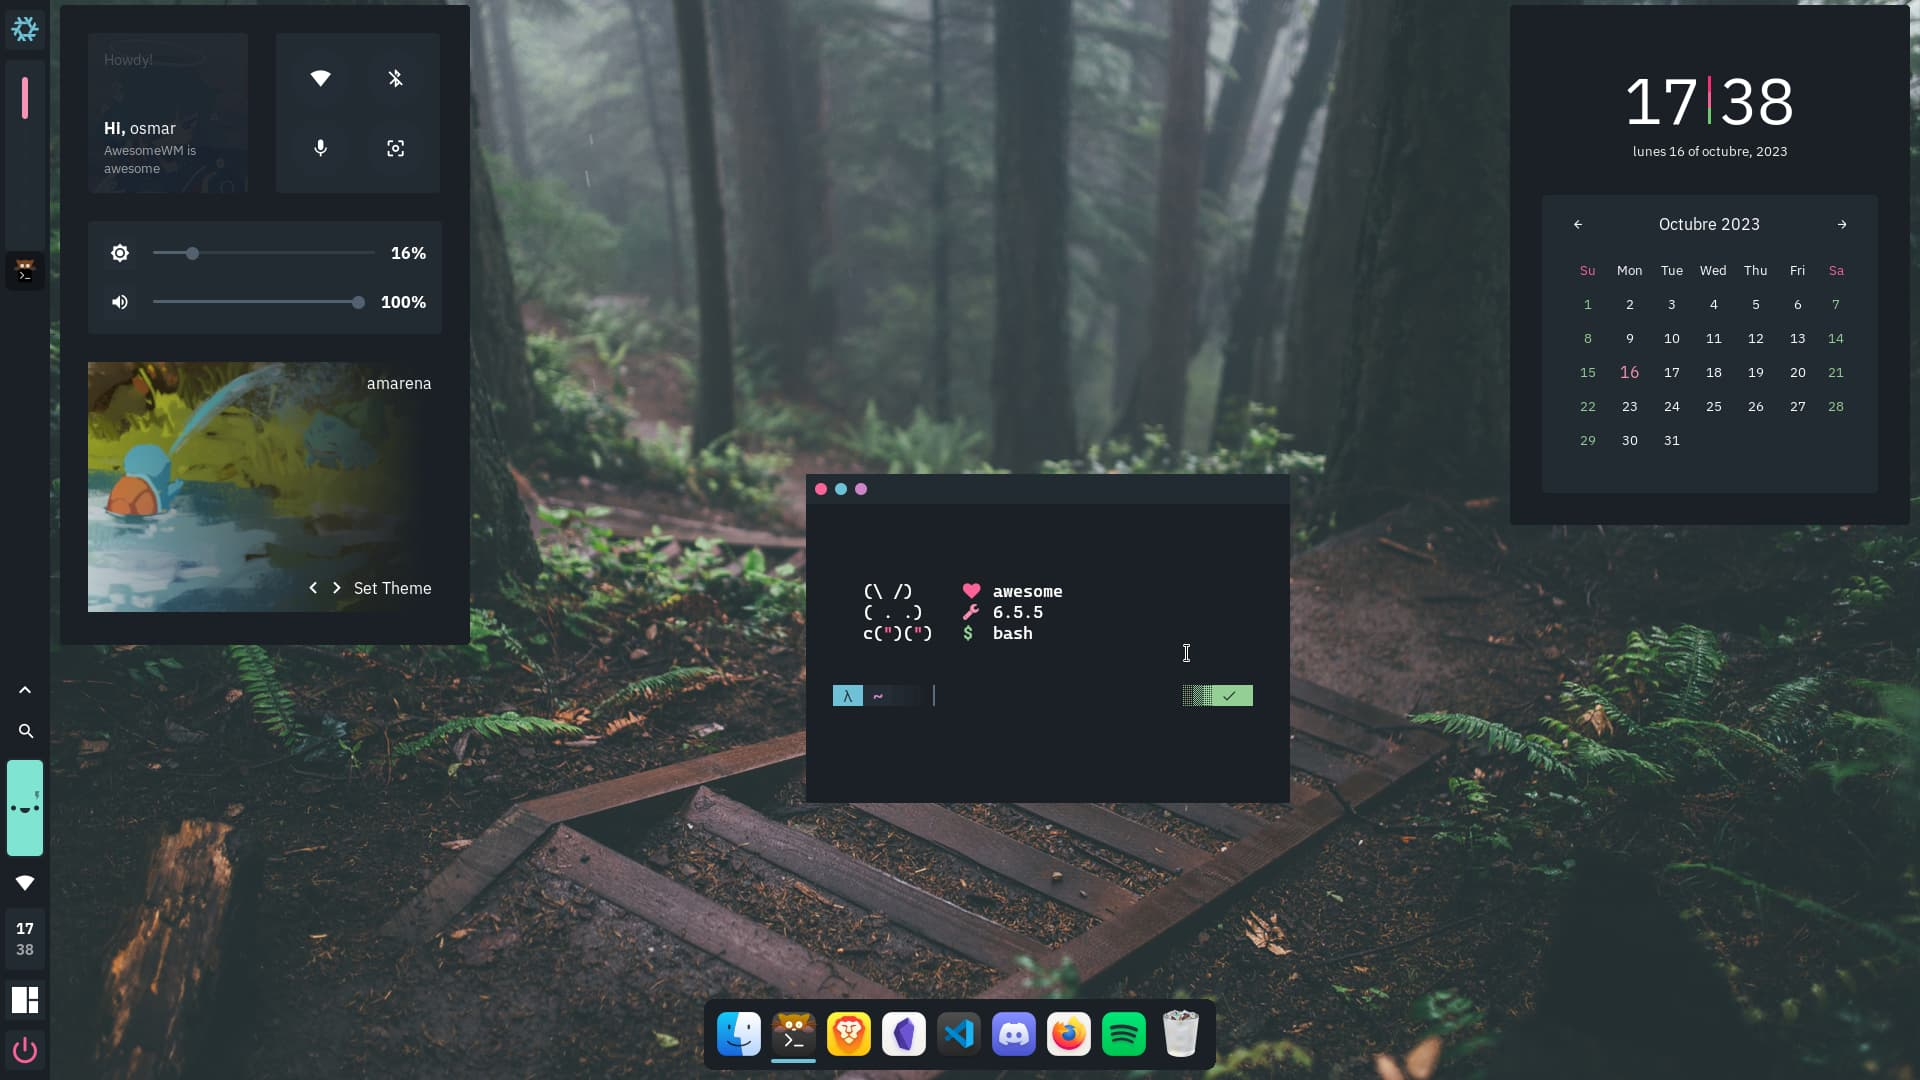
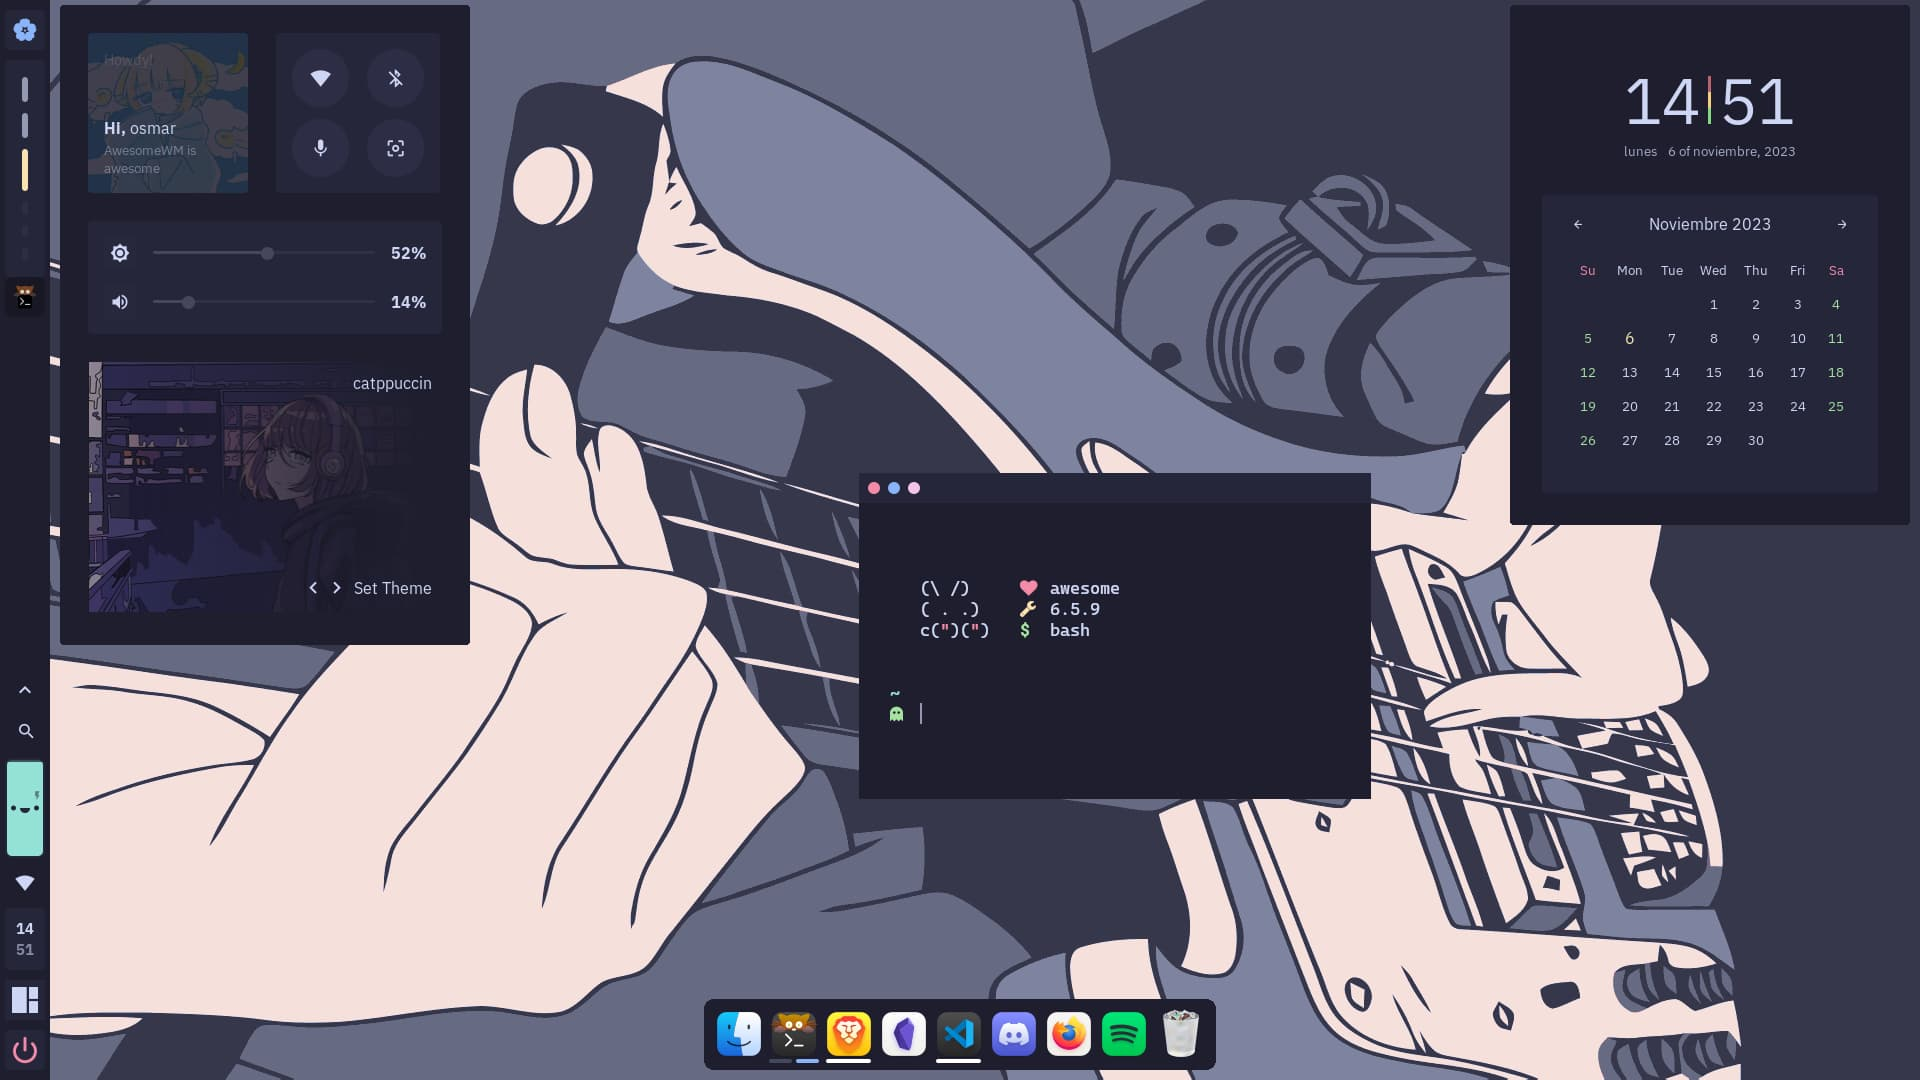
docs: update screenshots & add color scheme

diff --git a/.github/README.md b/.github/README.md
@@ -184,7 +184,7 @@ Most of this project follows the structure of the [Suconakh](https://github.com/
 | Variable       | Type      | Description                                                                        |
 | -------------- | --------- | ---------------------------------------------------------------------------------- |
 | gaps           | `integer` | Spacing between clients and screen padding size                                    |
-| colorscheme    | `string`  | `everblush`, `everforest`, `tokyonight`, `fullerene`, `oxocarbon` ,`catppuccin`,`mar`,`nord`,`gruvbox_dark`,`dracula`,`default`, `gruvbox_dark`, `adwaita`, `janleigh`, `gruvbox_light`, `solarized`,`plata`, and more to come  |
+| colorscheme    | `string`  | `everblush`, `everforest`, `tokyonight`, `fullerene`, `oxocarbon` ,`catppuccin`,`mar`,`nord`,`gruvbox_dark`,`dracula`,`default`, `adwaita`, `janleigh`, `gruvbox_light`, `solarized_dark`,`solarized_light`,`plata`,`amarena`,`rose`,`ephemeral`,`skyfall` and more to come  |
 | avatar         | `string`  | Path to user profile picture                                                       |
 | wallpaper      | `string`  | Path to user wallpaper                                                             |
 | screenshot_dir | `string`  | Directory to save screenshots to                                                   |
